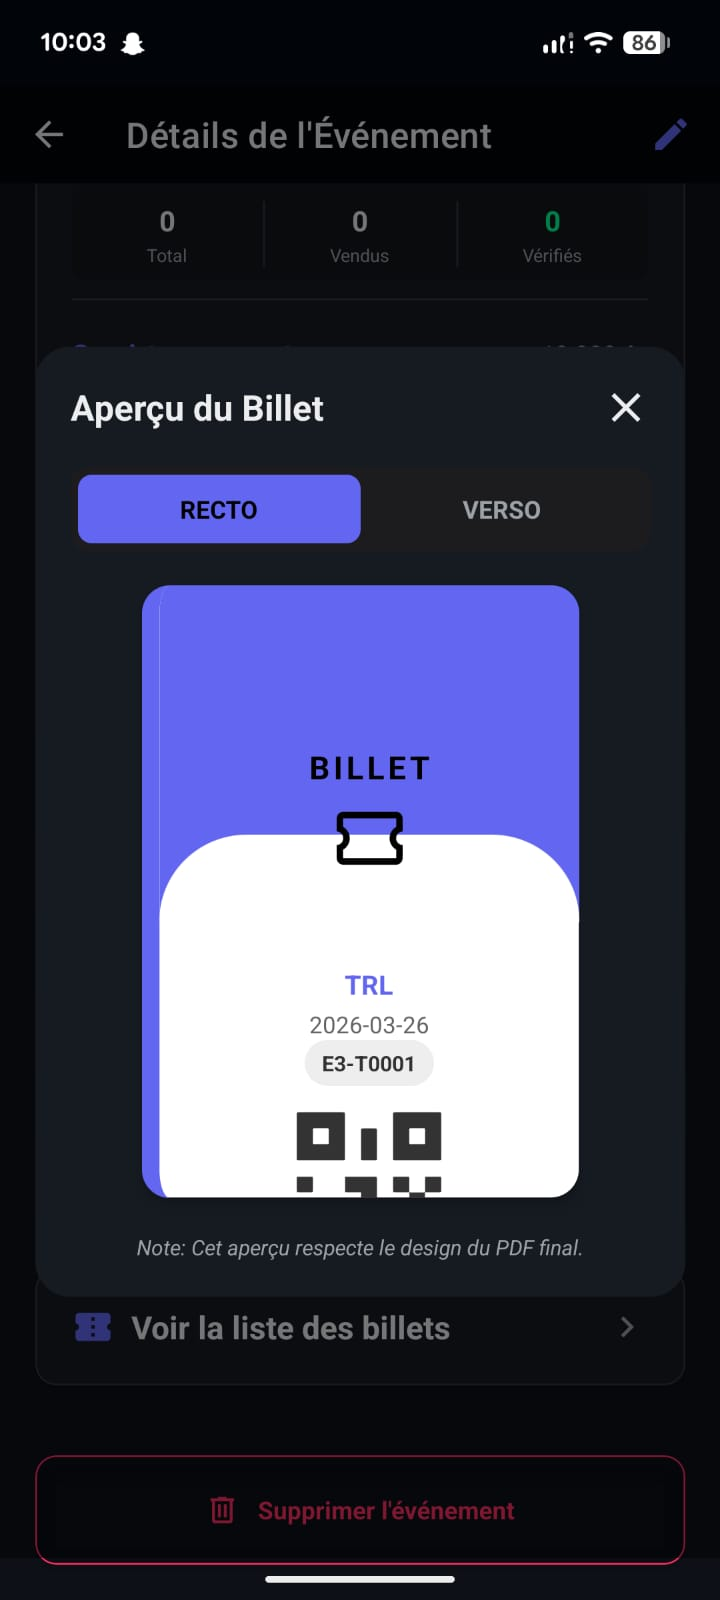
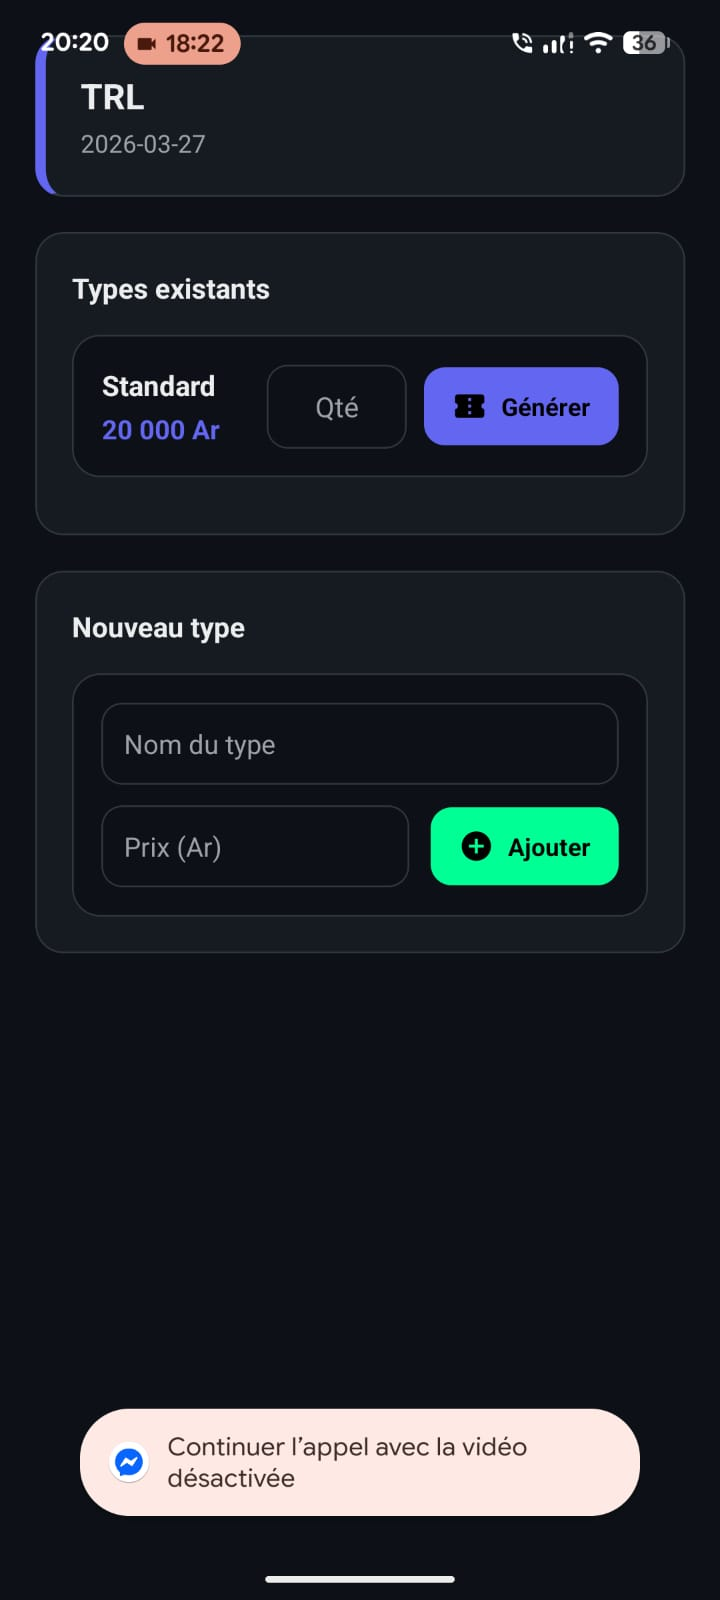
[front] evenement details

diff --git a/i-varotra-billet/app/event/[id].tsx b/i-varotra-billet/app/event/[id].tsx
@@ -250,55 +250,59 @@ export default function EventDetails() {
         </View>
       )}
 
-      {role === 'admin' && (
+      {/* Actions Grid - 2x2 Cards */}
+      <View style={styles.actionsGridContainer}>
+        {role === 'admin' && (
+          <TouchableOpacity
+            style={[styles.actionCard, { backgroundColor: themeColor }]}
+            onPress={() => router.push(`/event/${id}/generate`)}
+            activeOpacity={0.8}
+          >
+            <View style={styles.actionIconWrapper}>
+              <MaterialCommunityIcons name="ticket-outline" size={32} color="#000" />
+            </View>
+            <Text style={[styles.actionText, { color: '#000' }]}>Générer billet</Text>
+          </TouchableOpacity>
+        )}
+
         <TouchableOpacity
-          style={[styles.card, { backgroundColor: themeColor }]}
-          onPress={() => router.push(`/event/${eventId}/generate`)}
+          style={[styles.actionCard, { backgroundColor: theme.success }]}
+          onPress={handleExportPdf}
+          disabled={exporting}
+          activeOpacity={0.8}
         >
-          <View style={{ flexDirection: 'row', alignItems: 'center', justifyContent: 'center', gap: 10 }}>
-            <MaterialCommunityIcons name="ticket-outline" size={24} color="#000" />
-            <Text style={[styles.buttonText, { color: '#000' }]}>Générer des billets</Text>
+          <View style={styles.actionIconWrapper}>
+            {exporting ? (
+              <ActivityIndicator color="#000" />
+            ) : (
+              <MaterialCommunityIcons name="file-pdf-box" size={32} color="#000" />
+            )}
           </View>
+          <Text style={[styles.actionText, { color: '#000' }]}>Exporter PDF</Text>
         </TouchableOpacity>
-      )}
 
-      <TouchableOpacity 
-        style={[styles.card, { backgroundColor: theme.success, marginTop: role === 'admin' ? 0 : 20 }]} 
-        onPress={handleExportPdf}
-        disabled={exporting}
-      >
-        <View style={{ flexDirection: 'row', alignItems: 'center', justifyContent: 'center', gap: 10 }}>
-          {exporting ? (
-            <ActivityIndicator color="#000" />
-          ) : (
-            <MaterialCommunityIcons name="file-pdf-box" size={24} color="#000" />
-          )}
-          <Text style={[styles.buttonText, { color: '#000' }]}>Exporter en PDF (A4 - 3x3)</Text>
-        </View>
-      </TouchableOpacity>
-
-      <TouchableOpacity 
-        style={[styles.card, { backgroundColor: theme.card, borderColor: theme.border, marginTop: 0 }]} 
-        onPress={() => setShowPreview(true)}
-      >
-        <View style={{ flexDirection: 'row', alignItems: 'center', justifyContent: 'center', gap: 10 }}>
-          <MaterialCommunityIcons name="eye" size={24} color={theme.tint} />
-          <Text style={[styles.buttonText, { color: theme.tint }]}>Visualiser le Modèle</Text>
-        </View>
-      </TouchableOpacity>
-
-      <TouchableOpacity 
-        style={[styles.card, styles.viewTickets, { backgroundColor: theme.card, borderColor: theme.border }]}
-        onPress={() => router.push(`/tickets/${eventId}`)}
-      >
-        <View style={{ flexDirection: 'row', alignItems: 'center', justifyContent: 'space-between' }}>
-          <View style={{ flexDirection: 'row', alignItems: 'center' }}>
-            <MaterialCommunityIcons name="ticket-confirmation" size={24} color={themeColor} />
-            <Text style={[styles.cardTitle, { color: theme.text, marginBottom: 0, marginLeft: 10 }]}>Voir la liste des billets</Text>
+        <TouchableOpacity
+          style={[styles.actionCard, { backgroundColor: theme.card, borderColor: theme.border, borderWidth: 1 }]}
+          onPress={() => setShowPreview(true)}
+          activeOpacity={0.8}
+        >
+          <View style={[styles.actionIconWrapper, { backgroundColor: 'rgba(99, 102, 241, 0.1)' }]}>
+            <MaterialCommunityIcons name="eye" size={32} color={theme.tint} />
           </View>
-          <MaterialCommunityIcons name="chevron-right" size={24} color={theme.icon} />
-        </View>
-      </TouchableOpacity>
+          <Text style={[styles.actionText, { color: theme.tint }]}>Visualiser modèle</Text>
+        </TouchableOpacity>
+
+        <TouchableOpacity
+          style={[styles.actionCard, { backgroundColor: theme.card, borderColor: theme.border, borderWidth: 1 }]}
+          onPress={() => router.push(`/tickets/${eventId}`)}
+          activeOpacity={0.8}
+        >
+          <View style={[styles.actionIconWrapper, { backgroundColor: 'rgba(99, 102, 241, 0.1)' }]}>
+            <MaterialCommunityIcons name="ticket-confirmation" size={32} color={themeColor} />
+          </View>
+          <Text style={[styles.actionText, { color: theme.text }]}>Voir liste</Text>
+        </TouchableOpacity>
+      </View>
 
       {/* Preview Modal */}
       <Modal visible={showPreview} transparent animationType="slide">
@@ -516,6 +520,10 @@ const styles = StyleSheet.create({
   button: { flexDirection: 'row', borderRadius: 10, padding: 15, alignItems: 'center', justifyContent: 'center', gap: 10 },
   buttonText: { fontSize: 16, fontWeight: 'bold' },
   viewTickets: { marginTop: 0, flexDirection: 'column' },
+  actionsGridContainer: { flexDirection: 'row', flexWrap: 'wrap', justifyContent: 'space-between', paddingHorizontal: 20, marginTop: 10, gap: 15 },
+  actionCard: { width: '47%', padding: 20, borderRadius: 16, alignItems: 'center', elevation: 3, shadowColor: '#000', shadowOffset: { width: 0, height: 2 }, shadowOpacity: 0.1, shadowRadius: 4 },
+  actionIconWrapper: { width: 60, height: 60, borderRadius: 30, alignItems: 'center', justifyContent: 'center', marginBottom: 12 },
+  actionText: { fontSize: 14, fontWeight: 'bold', textAlign: 'center' },
   modalOverlay: { flex: 1, backgroundColor: 'rgba(0,0,0,0.85)', justifyContent: 'center', padding: 20 },
   previewContent: { borderRadius: 24, padding: 20, maxHeight: '90%', backgroundColor: '#111827', borderWidth: 1, borderColor: '#1E293B' },
   previewHeader: { flexDirection: 'row', justifyContent: 'space-between', alignItems: 'center', marginBottom: 20 },

diff --git a/i-varotra-billet/app/tickets/[eventId].tsx b/i-varotra-billet/app/tickets/[eventId].tsx
@@ -297,45 +297,66 @@ export default function TicketList() {
 
       {/* Ticket Type Filter */}
       {!selectionMode && ticketTypes.length > 0 && (
-        <ScrollView 
-          horizontal 
-          showsHorizontalScrollIndicator={false}
-          style={styles.filterScroll}
-          contentContainerStyle={styles.filterContainer}
-        >
-          <TouchableOpacity
-            style={[
-              styles.filterChip,
-              selectedTypeId === null && { backgroundColor: theme.tint }
-            ]}
-            onPress={() => setSelectedTypeId(null)}
+        <View style={[styles.filterSection, { backgroundColor: theme.card, borderColor: theme.border }]}>
+          <View style={styles.filterHeader}>
+            <MaterialCommunityIcons name="filter-variant" size={18} color={theme.tint} />
+            <Text style={[styles.filterLabel, { color: theme.text }]}>Filtrer par type</Text>
+            {selectedTypeId !== null && (
+              <TouchableOpacity onPress={() => setSelectedTypeId(null)} style={styles.clearFilterBtn}>
+                <Text style={[styles.clearFilterText, { color: theme.danger }]}>Effacer</Text>
+              </TouchableOpacity>
+            )}
+          </View>
+          <ScrollView
+            horizontal
+            showsHorizontalScrollIndicator={false}
+            style={styles.filterScroll}
+            contentContainerStyle={styles.filterContainer}
           >
-            <Text style={[
-              styles.filterChipText,
-              selectedTypeId === null && { color: '#000', fontWeight: 'bold' }
-            ]}>
-              Tous
-            </Text>
-          </TouchableOpacity>
-          
-          {ticketTypes.map(type => (
             <TouchableOpacity
-              key={type.id}
               style={[
                 styles.filterChip,
-                selectedTypeId === type.id && { backgroundColor: theme.tint }
+                selectedTypeId === null && { backgroundColor: theme.tint, borderColor: theme.tint }
               ]}
-              onPress={() => setSelectedTypeId(type.id)}
+              onPress={() => setSelectedTypeId(null)}
             >
+              <MaterialCommunityIcons 
+                name="ticket-outline" 
+                size={16} 
+                color={selectedTypeId === null ? '#000' : theme.tint} 
+              />
               <Text style={[
                 styles.filterChipText,
-                selectedTypeId === type.id && { color: '#000', fontWeight: 'bold' }
+                selectedTypeId === null && { color: '#000', fontWeight: 'bold' }
               ]}>
-                {type.name}
+                Tous
               </Text>
             </TouchableOpacity>
-          ))}
-        </ScrollView>
+
+            {ticketTypes.map(type => (
+              <TouchableOpacity
+                key={type.id}
+                style={[
+                  styles.filterChip,
+                  selectedTypeId === type.id && { backgroundColor: theme.tint, borderColor: theme.tint }
+                ]}
+                onPress={() => setSelectedTypeId(type.id)}
+              >
+                <MaterialCommunityIcons 
+                  name="ticket" 
+                  size={16} 
+                  color={selectedTypeId === type.id ? '#000' : theme.tint} 
+                />
+                <Text style={[
+                  styles.filterChipText,
+                  selectedTypeId === type.id && { color: '#000', fontWeight: 'bold' }
+                ]}>
+                  {type.name}
+                </Text>
+              </TouchableOpacity>
+            ))}
+          </ScrollView>
+        </View>
       )}
 
       <FlatList
@@ -449,19 +470,48 @@ const styles = StyleSheet.create({
     fontSize: 18,
     fontWeight: 'bold'
   },
-  filterScroll: { maxHeight: 50 },
-  filterContainer: { flexDirection: 'row', paddingHorizontal: 15, gap: 10 },
+  filterSection: {
+    marginHorizontal: 15,
+    marginBottom: 10,
+    padding: 12,
+    borderRadius: 12,
+    borderWidth: 1,
+  },
+  filterHeader: {
+    flexDirection: 'row',
+    alignItems: 'center',
+    marginBottom: 10,
+    gap: 8,
+  },
+  filterLabel: {
+    fontSize: 14,
+    fontWeight: '600',
+    flex: 1,
+  },
+  clearFilterBtn: {
+    paddingHorizontal: 10,
+    paddingVertical: 4,
+  },
+  clearFilterText: {
+    fontSize: 13,
+    fontWeight: '600',
+  },
+  filterScroll: { maxHeight: 45 },
+  filterContainer: { flexDirection: 'row', gap: 8 },
   filterChip: {
-    paddingHorizontal: 16,
-    paddingVertical: 8,
+    flexDirection: 'row',
+    alignItems: 'center',
+    paddingHorizontal: 14,
+    paddingVertical: 7,
     borderRadius: 20,
     backgroundColor: '#1E293B',
     borderWidth: 1,
-    borderColor: '#334155'
+    borderColor: '#334155',
+    gap: 6,
   },
   filterChipText: {
     color: '#94A3B8',
-    fontSize: 14,
+    fontSize: 13,
     fontWeight: '600'
   }
 });

diff --git a/i-varotra-billet/app/_layout.tsx b/i-varotra-billet/app/_layout.tsx
@@ -61,19 +61,28 @@ export default function Layout() {
           headerTitle: 'Nouvel Événement' 
         }} 
       />
-      <Stack.Screen 
-        name="event/[id]" 
-        options={{ 
-          headerShown: true, 
-          headerTitle: 'Détails de l\'Événement' 
-        }} 
+      <Stack.Screen
+        name="event/[id]"
+        options={{
+          headerShown: true,
+          headerTitle: 'Détails de l\'Événement'
+        }}
       />
-      <Stack.Screen 
-        name="tickets/[eventId]" 
-        options={{ 
-          headerShown: true, 
-          headerTitle: 'Liste des Billets' 
-        }} 
+      <Stack.Screen
+        name="event/[id]/generate"
+        options={{
+          headerShown: true,
+          headerTitle: 'Générer des billets',
+          headerStyle: { backgroundColor: '#111827' },
+          headerTintColor: '#FFFFFF',
+        }}
+      />
+      <Stack.Screen
+        name="tickets/[eventId]"
+        options={{
+          headerShown: true,
+          headerTitle: 'Liste des Billets'
+        }}
       />
       <Stack.Screen 
         name="assign-ticket/[id]" 

diff --git a/i-varotra-billet/app/event/[id]/generate.tsx b/i-varotra-billet/app/event/[id]/generate.tsx
@@ -10,7 +10,7 @@ import {
   SafeAreaView,
   useColorScheme
 } from 'react-native';
-import { useLocalSearchParams, useRouter, useFocusEffect, Stack } from 'expo-router';
+import { useLocalSearchParams, useRouter, useFocusEffect } from 'expo-router';
 import { EventService } from '../../../services/EventService';
 import { TicketService } from '../../../services/TicketService';
 import { MaterialCommunityIcons } from '@expo/vector-icons';
@@ -94,15 +94,6 @@ export default function GenerateTickets() {
 
   return (
     <SafeAreaView style={[styles.container, { backgroundColor: theme.background }]}>
-      <Stack.Screen
-        options={{
-          headerStyle: { backgroundColor: theme.header },
-          headerTintColor: theme.text,
-          headerTitle: 'Générer des billets',
-          headerBackVisible: true,
-        }}
-      />
-
       <ScrollView style={styles.scroll} contentContainerStyle={styles.scrollContent}>
         {/* Event Info */}
         <View style={[styles.eventCard, { backgroundColor: theme.card, borderColor: theme.border, borderLeftColor: themeColor }]}>
